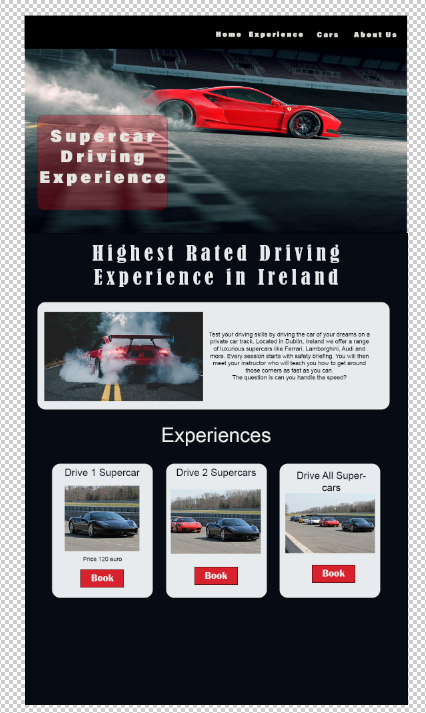
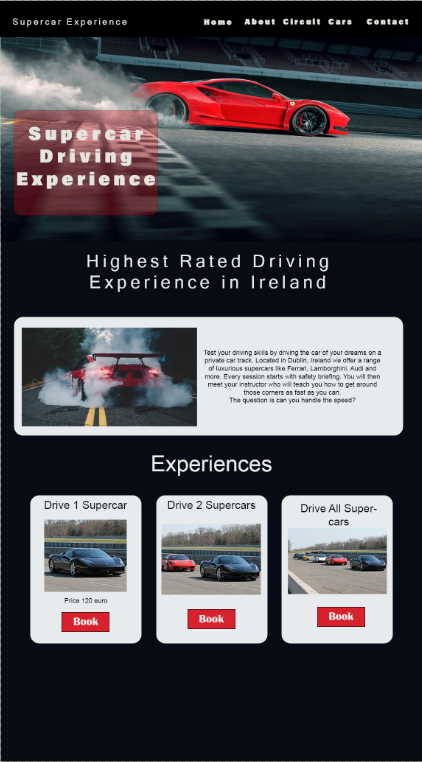
add wireframes and update mock up pics in readme file

diff --git a/README.md b/README.md
@@ -26,6 +26,11 @@ The fonts used are from [Google Fonts](https://fonts.google.com/specimen/Kanit?q
 ### Images
 The images used are from various sources which are linked in the credits section. The images were compressed to improve the performance of the website. 
 ### Wireframes
+This website was design as scroll website with fixed navigation to help the user navigate easily through the website.
+The initial idea for the experience cards was to have them with horizontal layout however due to the fact that the flow of information in the previous two sections was horizontal, decision was made for the cards to be vertical to break this pattern.
+
+![wireframes of desktop version](./assets/images/readme-images/balsamiq-page1.PNG)
+![wireframes of mobile version](./assets/images/readme-images/balsamiq-page-mobile.PNG)
 
 ### Mockups
 After the initial planning of the structure of the website, mockups were created on different sections of the website using Photoshop.
@@ -38,7 +43,7 @@ The Circuit section was designed by using background image followed by transpare
 ![Circuit mock up design](./assets/images/readme-images/racetrack-mockup.PNG)
 
 #### Experiences
-The experiences section was also designed visually in Photoshop first.
+The experiences section was also designed visually in Photoshop first with improved layout.
 ![Experiences mock up design](./assets/images/readme-images/carcard-mockup.PNG)
 #### Footer
 Mockup of the Footer.
